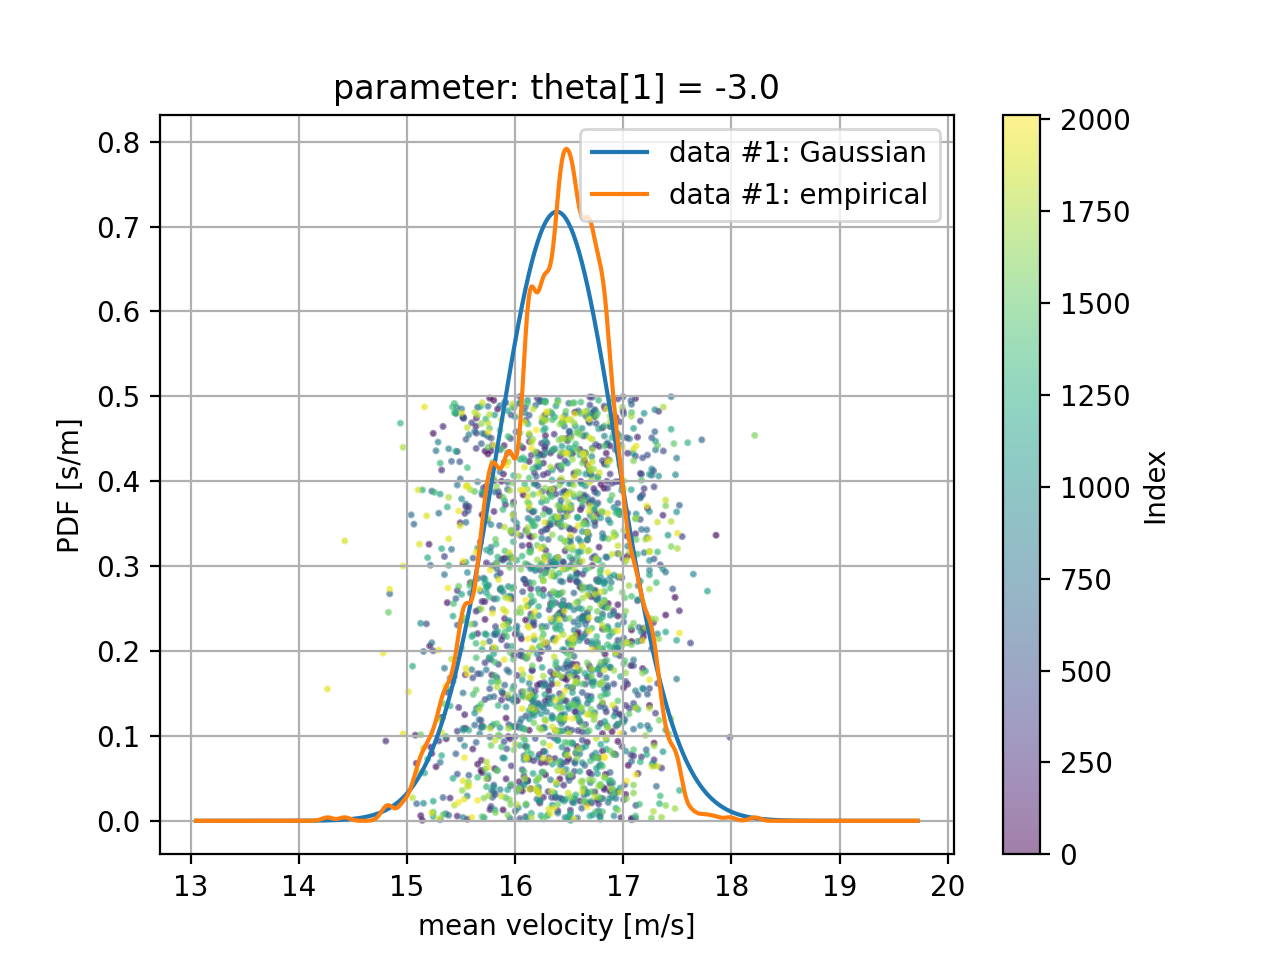
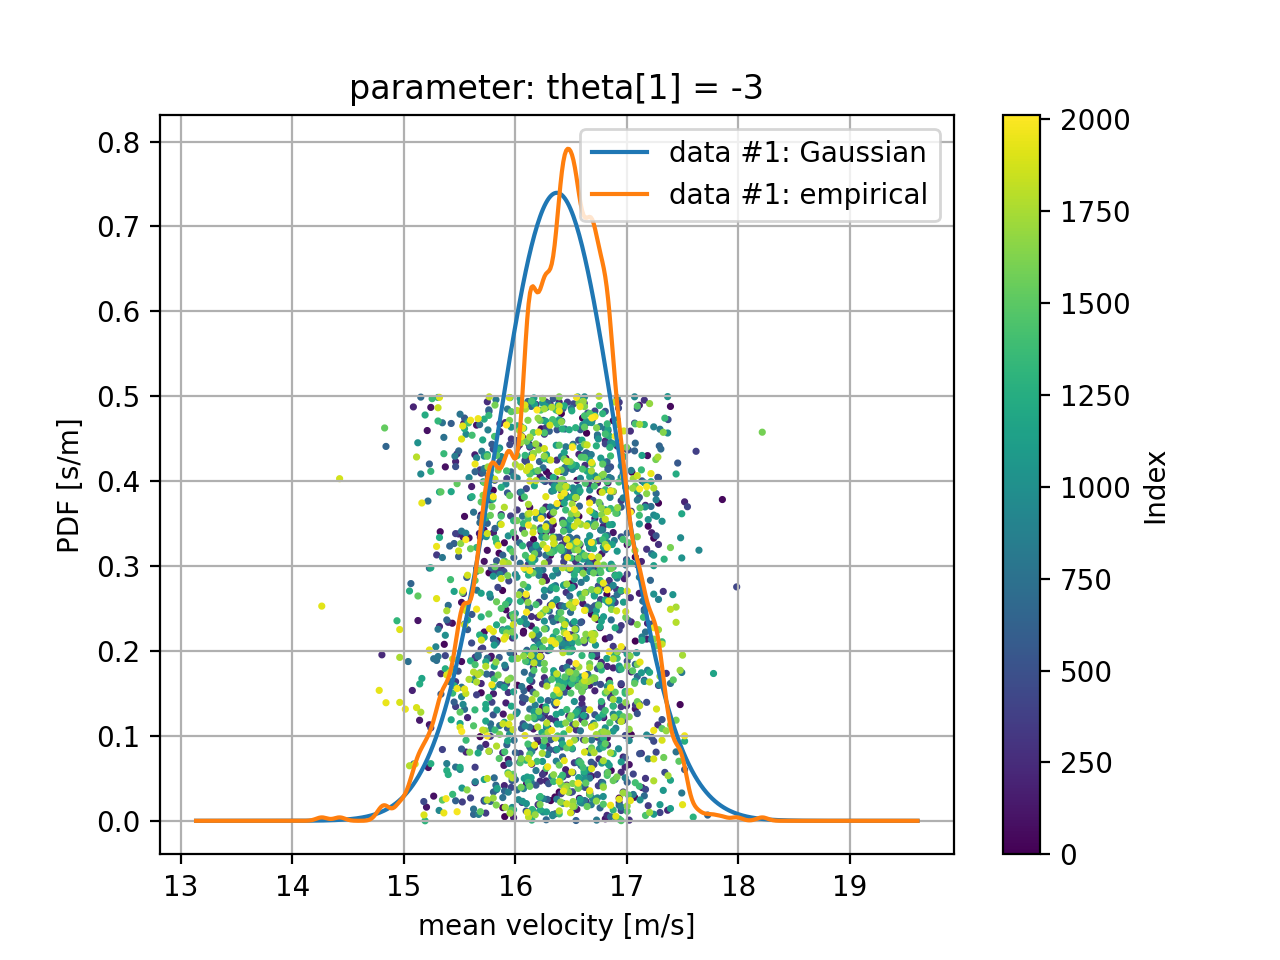
少し修正

diff --git a/src/plotting.py b/src/plotting.py
@@ -170,7 +170,7 @@ if __name__ == "__main__":
         name = "Jockey_DB_EL"
 
     ## 戦績
-    df = pd.read_csv(name+".csv")
+    df = pd.read_csv("data/"+name+".csv")
     ## データフレームを使用する変数だけに削減
     # varlist = ['ID', '頭 数', '馬 番', 'オ ッ ズ', '着 順', '斤 量', '上り', '馬体重', 'タイム', '距離']
     varlist = ['ID', 'タイム', '距離']

diff --git a/src/main_v2.py b/src/main_v2.py
@@ -43,7 +43,7 @@ def showPDF(csvpath, v, arr_label):
         ax.scatter(arr_vel, p_v, s=10, marker='.', alpha=0.1)
     ax.set_xlabel(arr_label[0])
     ax.set_ylabel(arr_label[1])
-    ax.legend()
+    ax.legend(loc='upper right')
     ax.grid()
     plt.savefig(f'fig/PDF.png')
 ##
